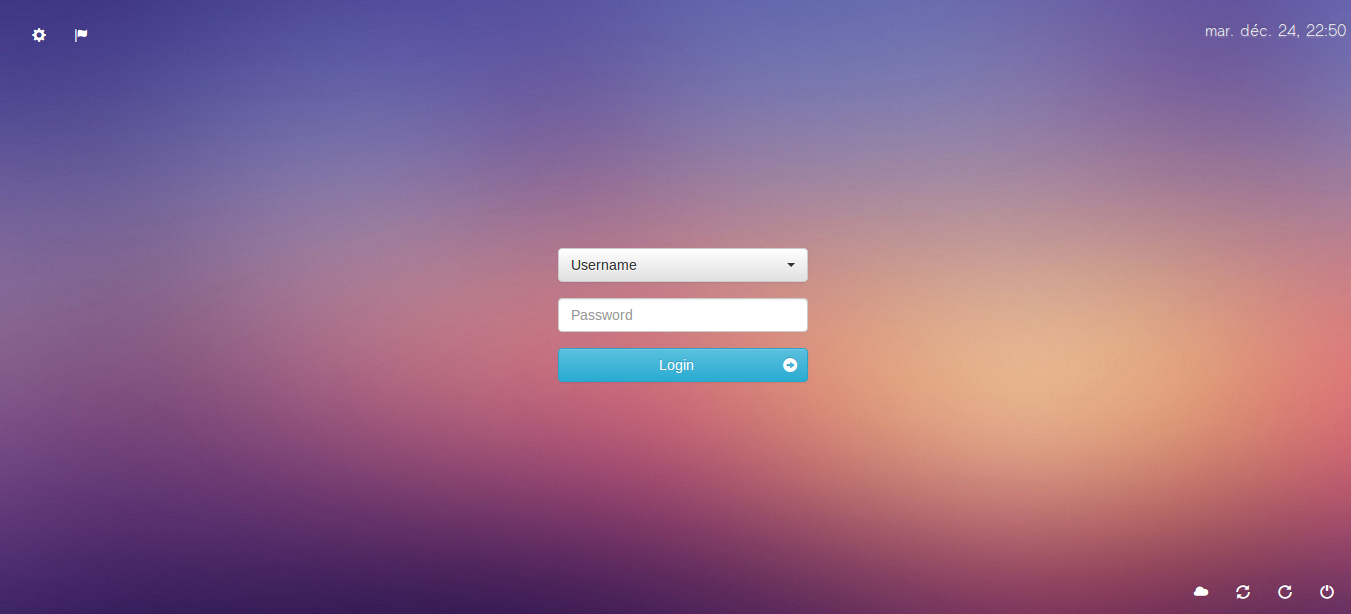
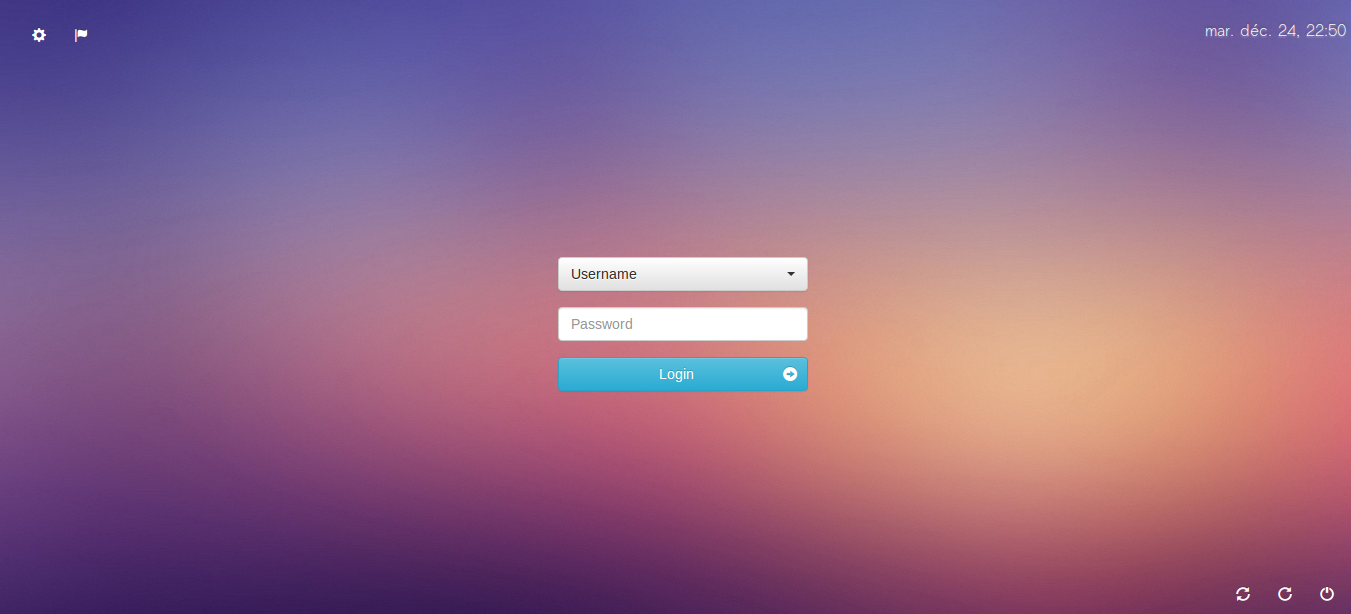
fix login

Changed region(s): [[0.4041, 0.4023, 0.6218, 0.6498], [0.8705, 0.9593, 0.9948, 0.9902]]

diff --git a/js/bootbox.min.js b/js/bootbox.min.js
@@ -1,0 +1,6 @@
+/**
+ * bootbox.js v4.1.0
+ *
+ * http://bootboxjs.com/license.txt
+ */
+window.bootbox=window.bootbox||function a(b,c){"use strict";function d(a){var b=r[p.locale];return b?b[a]:r.en[a]}function e(a,c,d){a.preventDefault();var e=b.isFunction(d)&&d(a)===!1;e||c.modal("hide")}function f(a){var b,c=0;for(b in a)c++;return c}function g(a,c){var d=0;b.each(a,function(a,b){c(a,b,d++)})}function h(a){var c,d;if("object"!=typeof a)throw new Error("Please supply an object of options");if(!a.message)throw new Error("Please specify a message");return a=b.extend({},p,a),a.buttons||(a.buttons={}),a.backdrop=a.backdrop?"static":!1,c=a.buttons,d=f(c),g(c,function(a,e,f){if(b.isFunction(e)&&(e=c[a]={callback:e}),"object"!==b.type(e))throw new Error("button with key "+a+" must be an object");e.label||(e.label=a),e.className||(e.className=2>=d&&f===d-1?"btn-primary":"btn-default")}),a}function i(a,b){var c=a.length,d={};if(1>c||c>2)throw new Error("Invalid argument length");return 2===c||"string"==typeof a[0]?(d[b[0]]=a[0],d[b[1]]=a[1]):d=a[0],d}function j(a,c,d){return b.extend(!0,{},a,i(c,d))}function k(a,b,c,d){var e={className:"bootbox-"+a,buttons:l.apply(null,b)};return m(j(e,d,c),b)}function l(){for(var a={},b=0,c=arguments.length;c>b;b++){var e=arguments[b],f=e.toLowerCase(),g=e.toUpperCase();a[f]={label:d(g)}}return a}function m(a,b){var d={};return g(b,function(a,b){d[b]=!0}),g(a.buttons,function(a){if(d[a]===c)throw new Error("button key "+a+" is not allowed (options are "+b.join("\n")+")")}),a}var n={dialog:"<div class='bootbox modal' tabindex='-1' role='dialog'><div class='modal-dialog'><div class='modal-content'><div class='modal-body'><div class='bootbox-body'></div></div></div></div></div>",header:"<div class='modal-header'><h4 class='modal-title'></h4></div>",footer:"<div class='modal-footer'></div>",closeButton:"<button type='button' class='bootbox-close-button close'>&times;</button>",form:"<form class='bootbox-form'></form>",inputs:{text:"<input class='bootbox-input bootbox-input-text form-control' autocomplete=off type=text />",email:"<input class='bootbox-input bootbox-input-email form-control' autocomplete='off' type='email' />",select:"<select class='bootbox-input bootbox-input-select form-control'></select>",checkbox:"<div class='checkbox'><label><input class='bootbox-input bootbox-input-checkbox' type='checkbox' /></label></div>"}},o=b("body"),p={locale:"en",backdrop:!0,animate:!0,className:null,closeButton:!0,show:!0},q={};q.alert=function(){var a;if(a=k("alert",["ok"],["message","callback"],arguments),a.callback&&!b.isFunction(a.callback))throw new Error("alert requires callback property to be a function when provided");return a.buttons.ok.callback=a.onEscape=function(){return b.isFunction(a.callback)?a.callback():!0},q.dialog(a)},q.confirm=function(){var a;if(a=k("confirm",["cancel","confirm"],["message","callback"],arguments),a.buttons.cancel.callback=a.onEscape=function(){return a.callback(!1)},a.buttons.confirm.callback=function(){return a.callback(!0)},!b.isFunction(a.callback))throw new Error("confirm requires a callback");return q.dialog(a)},q.prompt=function(){var a,d,e,f,h,i,k;if(f=b(n.form),d={className:"bootbox-prompt",buttons:l("cancel","confirm"),value:"",inputType:"text"},a=m(j(d,arguments,["title","callback"]),["cancel","confirm"]),i=a.show===c?!0:a.show,a.message=f,a.buttons.cancel.callback=a.onEscape=function(){return a.callback(null)},a.buttons.confirm.callback=function(){var c;switch(a.inputType){case"text":case"email":case"select":c=h.val();break;case"checkbox":var d=h.find("input:checked");c=[],g(d,function(a,d){c.push(b(d).val())})}return a.callback(c)},a.show=!1,!a.title)throw new Error("prompt requires a title");if(!b.isFunction(a.callback))throw new Error("prompt requires a callback");if(!n.inputs[a.inputType])throw new Error("invalid prompt type");switch(h=b(n.inputs[a.inputType]),a.inputType){case"text":case"email":h.val(a.value);break;case"select":var o={};if(k=a.inputOptions||[],!k.length)throw new Error("prompt with select requires options");g(k,function(a,d){var e=h;if(d.value===c||d.text===c)throw new Error("given options in wrong format");d.group&&(o[d.group]||(o[d.group]=b("<optgroup/>").attr("label",d.group)),e=o[d.group]),e.append("<option value='"+d.value+"'>"+d.text+"</option>")}),g(o,function(a,b){h.append(b)}),h.val(a.value);break;case"checkbox":var p=b.isArray(a.value)?a.value:[a.value];if(k=a.inputOptions||[],!k.length)throw new Error("prompt with checkbox requires options");if(!k[0].value||!k[0].text)throw new Error("given options in wrong format");h=b("<div/>"),g(k,function(c,d){var e=b(n.inputs[a.inputType]);e.find("input").attr("value",d.value),e.find("label").append(d.text),g(p,function(a,b){b===d.value&&e.find("input").prop("checked",!0)}),h.append(e)})}return a.placeholder&&h.attr("placeholder",a.placeholder),f.append(h),f.on("submit",function(a){a.preventDefault(),e.find(".btn-primary").click()}),e=q.dialog(a),e.off("shown.bs.modal"),e.on("shown.bs.modal",function(){h.focus()}),i===!0&&e.modal("show"),e},q.dialog=function(a){a=h(a);var c=b(n.dialog),d=c.find(".modal-body"),f=a.buttons,i="",j={onEscape:a.onEscape};if(g(f,function(a,b){i+="<button data-bb-handler='"+a+"' type='button' class='btn "+b.className+"'>"+b.label+"</button>",j[a]=b.callback}),d.find(".bootbox-body").html(a.message),a.animate===!0&&c.addClass("fade"),a.className&&c.addClass(a.className),a.title&&d.before(n.header),a.closeButton){var k=b(n.closeButton);a.title?c.find(".modal-header").prepend(k):k.css("margin-top","-10px").prependTo(d)}return a.title&&c.find(".modal-title").html(a.title),i.length&&(d.after(n.footer),c.find(".modal-footer").html(i)),c.on("hidden.bs.modal",function(a){a.target===this&&c.remove()}),c.on("shown.bs.modal",function(){c.find(".btn-primary:first").focus()}),c.on("escape.close.bb",function(a){j.onEscape&&e(a,c,j.onEscape)}),c.on("click",".modal-footer button",function(a){var d=b(this).data("bb-handler");e(a,c,j[d])}),c.on("click",".bootbox-close-button",function(a){e(a,c,j.onEscape)}),c.on("keyup",function(a){27===a.which&&c.trigger("escape.close.bb")}),o.append(c),c.modal({backdrop:a.backdrop,keyboard:!1,show:!1}),a.show&&c.modal("show"),c},q.setDefaults=function(){var a={};2===arguments.length?a[arguments[0]]=arguments[1]:a=arguments[0],b.extend(p,a)},q.hideAll=function(){b(".bootbox").modal("hide")};var r={br:{OK:"OK",CANCEL:"Cancelar",CONFIRM:"Sim"},da:{OK:"OK",CANCEL:"Annuller",CONFIRM:"Accepter"},de:{OK:"OK",CANCEL:"Abbrechen",CONFIRM:"Akzeptieren"},en:{OK:"OK",CANCEL:"Cancel",CONFIRM:"OK"},es:{OK:"OK",CANCEL:"Cancelar",CONFIRM:"Aceptar"},fi:{OK:"OK",CANCEL:"Peruuta",CONFIRM:"OK"},fr:{OK:"OK",CANCEL:"Annuler",CONFIRM:"D'accord"},it:{OK:"OK",CANCEL:"Annulla",CONFIRM:"Conferma"},nl:{OK:"OK",CANCEL:"Annuleren",CONFIRM:"Accepteren"},no:{OK:"OK",CANCEL:"Avbryt",CONFIRM:"OK"},pl:{OK:"OK",CANCEL:"Anuluj",CONFIRM:"Potwierdź"},ru:{OK:"OK",CANCEL:"Отмена",CONFIRM:"Применить"},zh_CN:{OK:"OK",CANCEL:"取消",CONFIRM:"确认"},zh_TW:{OK:"OK",CANCEL:"取消",CONFIRM:"確認"}};return q.init=function(c){window.bootbox=a(c||b)},q}(window.jQuery);

diff --git a/index.html b/index.html
@@ -53,15 +53,15 @@
 				<span class="glyphicon glyphicon-cloud"></span>
 			</a> -->
 
-			<a href="#" id="suspend" tabindex="7" data-toggle="tooltip" data-placement="top" data-title="$suspend" class="btn btn-primary btn-small">
+			<a href="#" id="suspend" data-target="FORCE-SUSPEND###" tabindex="7" data-toggle="tooltip" data-placement="top" data-title="$suspend" class="btn btn-primary btn-small">
 				<span class="glyphicon glyphicon-refresh"></span>
 			</a>
 
-			<a href="#" id="restart" tabindex="8" data-toggle="tooltip" data-placement="top" data-title="$restart" class="btn btn-primary btn-small">
+			<a href="#" id="restart" data-target="FORCE-RESTART###" tabindex="8" data-toggle="tooltip" data-placement="top" data-title="$restart" class="btn btn-primary btn-small">
 				<span class="glyphicon glyphicon-repeat"></span>
 			</a>
 
-			<a href="#" id="shutdown" tabindex="9" data-toggle="tooltip" data-placement="top" data-title="$shutdown" class="btn btn-primary btn-small">
+			<a href="#" id="shutdown" data-target="FORCE-SHUTDOWN###" tabindex="9" data-toggle="tooltip" data-placement="top" data-title="$shutdown" class="btn btn-primary btn-small">
 				<span class="glyphicon glyphicon-off"></span>
 			</a>
 		</div>
@@ -69,6 +69,7 @@
 		<script src="js/jquery-1.10.2.min.js"></script>
 		<script src="js/bootstrap.min.js"></script>
 		<script src="js/bootstrap-select.min.js"></script>
+		<script src="js/bootbox.min.js"></script>
 		<script src="js/mdm.js"></script>
 	</body>
 </html>

diff --git a/js/mdm.js b/js/mdm.js
@@ -107,9 +107,18 @@ function init()
 	init_languages_modal();
 
 	$('.actions a').tooltip();
-	$("#suspend").attr('href', "javascript:alert('FORCE-SUSPEND###')");
-	$("#restart").attr('href', "javascript:alert('FORCE-RESTART###')");
-	$("#shutdown").attr('href', "javascript:alert('FORCE-SHUTDOWN###')");
+
+	$("#suspend, #restart, #shutdown").bind('click', function(event){
+		event.preventDefault();
+		var self = $(this);
+
+		bootbox.confirm("Are you sure?", function(result) {
+			if (result == true)
+			{
+				//alert(self.data("target"));
+			}
+		});
+	});
 
 	$("#session").bind('click', function(event){
 		event.preventDefault();
@@ -130,6 +139,12 @@ function init()
 		}
  	});
 
+	$("#usernames-list").bind("change", function(event){
+		event.preventDefault();
+
+		var username = $(this).val();
+		alert("USER###"+username.val());
+	});
 
  	$("#login button[type=submit]").bind('click', function(event){
 		event.preventDefault();
@@ -149,11 +164,9 @@ function init()
 
 function send_login()
 {
-	var username = $('#usernames-list option:selected');
 	var password = $("#login input[name=password]");
 
 	mdm_disable();
-	alert("USER###"+username.val());
 	alert("LOGIN###"+password.val());
 }
 

diff --git a/css/theme.css b/css/theme.css
@@ -197,3 +197,9 @@ body
 {
   margin-right: 8px;
 }
+
+.bootbox .modal-dialog
+{
+  position: relative;
+  margin-top: 100px !important;
+}
